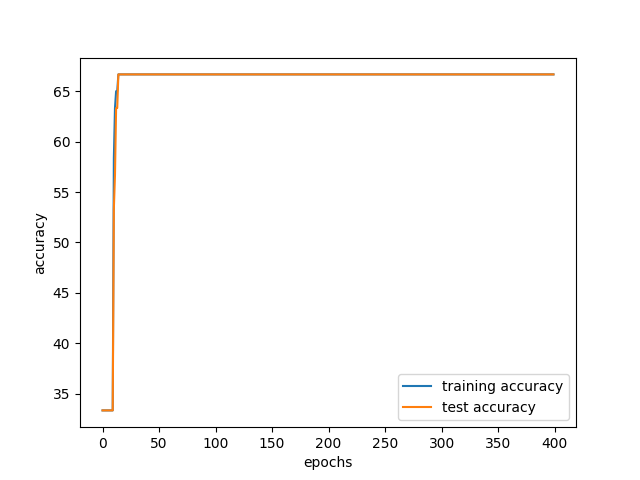
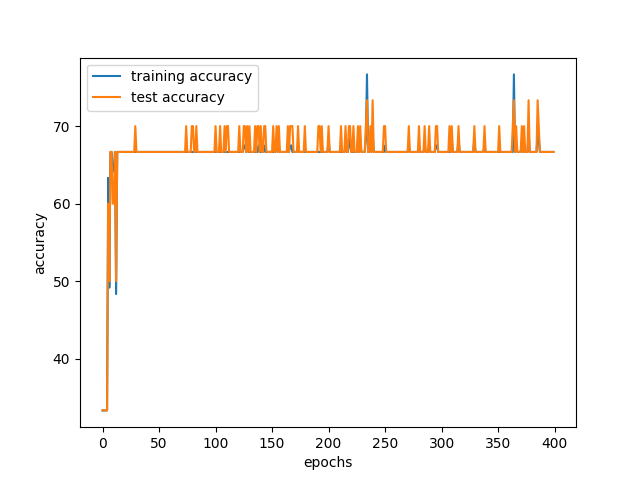
FINDING OUT THAT I DIDN'T FAIL, BUT THE MATH DID

diff --git a/lab_6/main.py b/lab_6/main.py
@@ -45,6 +45,16 @@ def forward_prop(weights, biases, instances):
     z1 = np.add(np.dot(weights[1], y0), biases[1].reshape(3, 1))
     y1 = sigmoid(z1)
     return z0, y0, z1, y1
+    # z0 = np.add(weights[0].dot(instances.transpose()), biases[0].reshape(24, 1))
+    # y0 = sigmoid(z0)
+    # z1 = np.add(np.dot(weights[1], y0), biases[1].reshape(3, 1))
+    # y1 = softmax(z1)
+    # return z0, y0, z1, y1
+
+
+def softmax(values):
+    inputs_sum = sum(pow(math.e, value) for value in values)
+    return np.array([pow(math.e, value) / (inputs_sum + pow(1, 0.00000001)) for value in values])
 
 
 def forward_prop_instance(weights, biases, instance):
@@ -53,6 +63,11 @@ def forward_prop_instance(weights, biases, instance):
     z1 = np.add(np.dot(weights[1], y0), biases[1])
     y1 = sigmoid(z1)
     return z0, y0, z1, y1
+    # z0 = np.add(weights[0].dot(instance), biases[0])
+    # y0 = sigmoid(z0)
+    # z1 = np.add(np.dot(weights[1], y0), biases[1])
+    # y1 = softmax(z1)
+    # return z0, y0, z1, y1
 
 
 def get_one_hot_target(target):
@@ -110,23 +125,40 @@ def plot_accuracies(nr_epochs, training_accuracy, test_accuracy, graph_name):
     plt.savefig(graph_name)
 
 
-def backward_prop(z0, inputs, y0, y1, weights_level_2, targets):
+def backward_prop(inputs, y0, y1, weights_level_2, targets):
     # dC/dy * dy/dz
-    # shape = 3, 20
+    # shape = 3, 10
     dz2 = y1 * np.subtract(1, y1) * np.subtract(y1, targets)
     # dy/dz * (error for every neuron * weights for it)
-    # shape = 24, 20 * 24, 20(20, 4 dot 4, 24)  =>  24, 20
-    dz1 = dz2.transpose().dot(weights_level_2).transpose()
+    # shape = 24, 10 * 24, 10(10, 4 dot 4, 24)  =>  24, 10
+    dz1 = y0 * np.subtract(1, y0) * dz2.transpose().dot(weights_level_2).transpose()
     # (hidden -> output)
-    # 4, 20 * 20, 24 = 4, 24
+    # 3, 10 * 10, 24 = 3, 24
     dw2 = dz2.dot(y0.transpose())
     db2 = np.sum(dz2, axis=1)
     # (input -> hidden)
-    # 24, 20 * 24, 4 = 24, 4
+    # 24, 10 * 24, 4 = 24, 4
     dw1 = dz1.dot(inputs)
     db1 = np.sum(dz1, axis=1)
 
     return dw1, dw2, db1, db2
+
+    # # dC/dy * dy/dz
+    # # shape = 10, 50
+    # dz2 = -1 / len(targets[0]) * np.subtract(targets, y1)
+    # # dy/dz * (error for every neuron * weights for it)
+    # # shape = 100, 50 * 100, 50(50, 10 dot 10, 100)  =>  100, 50
+    # dz1 = y0 * np.subtract(1, y0) * dz2.transpose().dot(weights_level_2).transpose()
+    # # (hidden -> output)
+    # # 10, 50 * 50, 100 = 10, 100
+    # dw2 = dz2.dot(y0.transpose())
+    # db2 = np.sum(dz2, axis=1)
+    # # (input -> hidden)
+    # # 100, 50 * 50, 784 = 100, 784
+    # dw1 = dz1.dot(inputs)
+    # db1 = np.sum(dz1, axis=1)
+    #
+    # return dw1, dw2, db1, db2
 
 
 def update_params(weights, biases, dw1, dw2, db1, db2, learning_rate):
@@ -147,7 +179,7 @@ def train(train_data, train_target, test_data, test_target, weights, biases, nr_
     for epoch_nr in range(nr_epochs):
         for batch_index in range(len(batches_target)):
             z0, y0, z1, y1 = forward_prop(weights, biases, batches_data[batch_index])
-            dw1, dw2, db1, db2 = backward_prop(z0, batches_data[batch_index], y0, y1, weights_level_2=weights[1],
+            dw1, dw2, db1, db2 = backward_prop(batches_data[batch_index], y0, y1, weights_level_2=weights[1],
                                                targets=batches_target[batch_index])
             weights, biases = update_params(weights, biases, dw1, dw2, db1, db2, learning_rate)
 
@@ -215,7 +247,7 @@ def get_confusion_matrix(weights, biases, dataset_data, dataset_target):
              [IRIS_VIRGINICA, confusion_matrix[2][0], confusion_matrix[2][1], confusion_matrix[2][2]]
              ]
     print()
-    print("~" * 20 + "THE CONFUSION MATRIX" + "~" * 20)
+    print("~" * 10 + "THE CONFUSION MATRIX" + "~" * 10)
     print(tabulate(table))
     return confusion_matrix
 
@@ -227,7 +259,7 @@ def main():
 
     hidden_size = 24
     weights, biases = get_weights_and_biases(hidden_size)
-    # batches_data, batches_target = get_batches(train_data, train_target, 20)
+    # batches_data, batches_target = get_batches(train_data, train_target, 10)
     print(f"accuracy without any training: {get_accuracy(weights, biases, train_data, train_target)[0]}")
     get_confusion_matrix(weights, biases, train_data, train_target)
     train(train_data, train_target, test_data, test_target, weights, biases)
